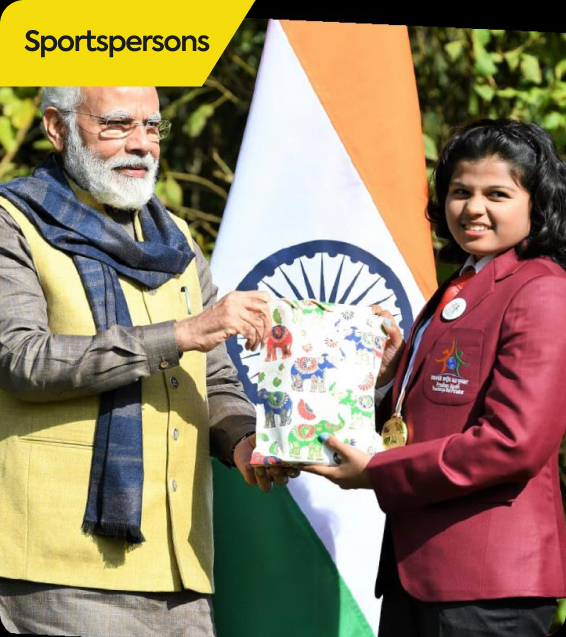
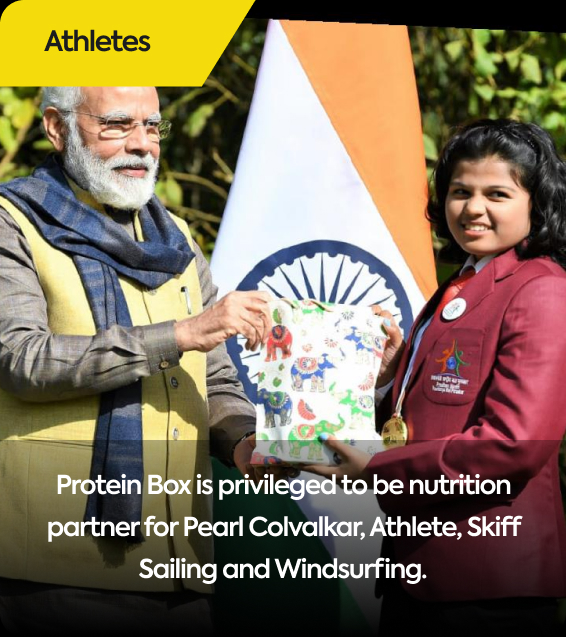
add benefits section

Changed region(s): [[0.0, 0.686, 1.0, 1.0], [0.03, 0.0298, 0.3905, 0.0895]]

diff --git a/src/pages/landing/Offerings/index.js b/src/pages/landing/Offerings/index.js
@@ -1,0 +1,59 @@
+import { Box, Grid, Stack, Typography, useTheme } from "@mui/material";
+import { cloneElement } from "react";
+import Header from "../../../components/Header";
+import FEATURES from "./constants";
+import {
+  Check,
+  CheckCircle,
+  CheckCircleOutlineRounded,
+} from "@mui/icons-material";
+import Marquee from "react-fast-marquee";
+
+export default function Offerings() {
+  const theme = useTheme();
+  return (
+    <Box maxWidth={1000} m="auto" width={{ xs: "90%", lg: "100%" }} py={12}>
+      <Header
+        label="Benefits"
+        title="Nourish Your Body, Elevate Your Life: Protein Box Benefits"
+      />
+      <Box mt={8}>
+        <Marquee>
+          {FEATURES.map(({ title, desc }, idx) => {
+            const accent = theme.palette.accent.main;
+            return (
+              <Box
+                ml={4}
+                key={idx}
+                bgcolor="#ffffff05"
+                textAlign="center"
+                border={`1px solid #ffffff50`}
+                width={300}
+                gap={4}
+                sx={{
+                  aspectRatio: "2/0.6",
+                }}
+                // data-sal-delay={idx * 100}
+                spacing={2}
+                p={4}
+                borderRadius={3}
+              >
+                {/* <Stack height={56} width={56} borderRadius={2} border={`1px solid ${accent}`} alignItems="center" justifyContent="center" bgcolor={accent + "10"}>
+                {icon}
+              </Stack> */}
+                <Stack spacing={1}>
+                  <Typography variant="body1" textTransform="uppercase" color="accent.main">
+                    {title}
+                  </Typography>
+                  <Typography variant="body2">
+                    {desc}
+                  </Typography>
+                </Stack>
+              </Box>
+            );
+          })}
+        </Marquee>
+      </Box>
+    </Box>
+  );
+}

diff --git a/src/pages/landing/Offerings/constants.js b/src/pages/landing/Offerings/constants.js
@@ -1,0 +1,36 @@
+import { Smileys } from "iconsax-react";
+
+const FEATURES = [
+  {
+    icon: <Smileys />,
+    title: "HOST AN EVENT ",
+    desc: "With Protein Box, you can host a healthy event for marriages, parties & any other functions."
+  },
+  {
+    icon: <Smileys />,
+    title: "CORPORATE MEAL PLANS ",
+    desc: "Increase health productivity of your employees with special corporate discount with Protein Box corporate meal plans."
+  },
+  {
+    icon: <Smileys />,
+    title: "LOW CARB HIGH PROTEIN MEALS ",
+    desc: "Specially curated your fat loss journey."
+  },
+  {
+    icon: <Smileys />,
+    title: "PRO ATHLETE & BODYBUILDING PREP MEALS",
+    desc: "Fuel your bodybuilding prep with Protein box custom curated macro based meals."
+  },
+  {
+    icon: <Smileys />,
+    title: "CARE MEALS ",
+    desc: "Now get super light, super healthy meal with high quality & safe ingredients for the elderly &  tasty retreats for the kids."
+  },
+  {
+    icon: <Smileys />,
+    title: "BUSINESS WITH PROTEIN BOX ",
+    desc: "Setup Protein Box healthy counter/kitchen in your office cafeteria, gym or co-working space."
+  },
+]
+
+export default FEATURES;

diff --git a/src/pages/landing/index.js b/src/pages/landing/index.js
@@ -6,6 +6,7 @@ import Features from "./features";
 import Hero from "./hero";
 import Sponsors from "./sponsors";
 import Testimonials from "./testimonials";
+import Offerings from "./Offerings";
 
 export default function Landing() {
   return (
@@ -14,6 +15,7 @@ export default function Landing() {
       <Hero />
       <Sponsors />
       <Features />
+      <Offerings />
       <Locations />
       <Achievements />
       <StatBlock />
